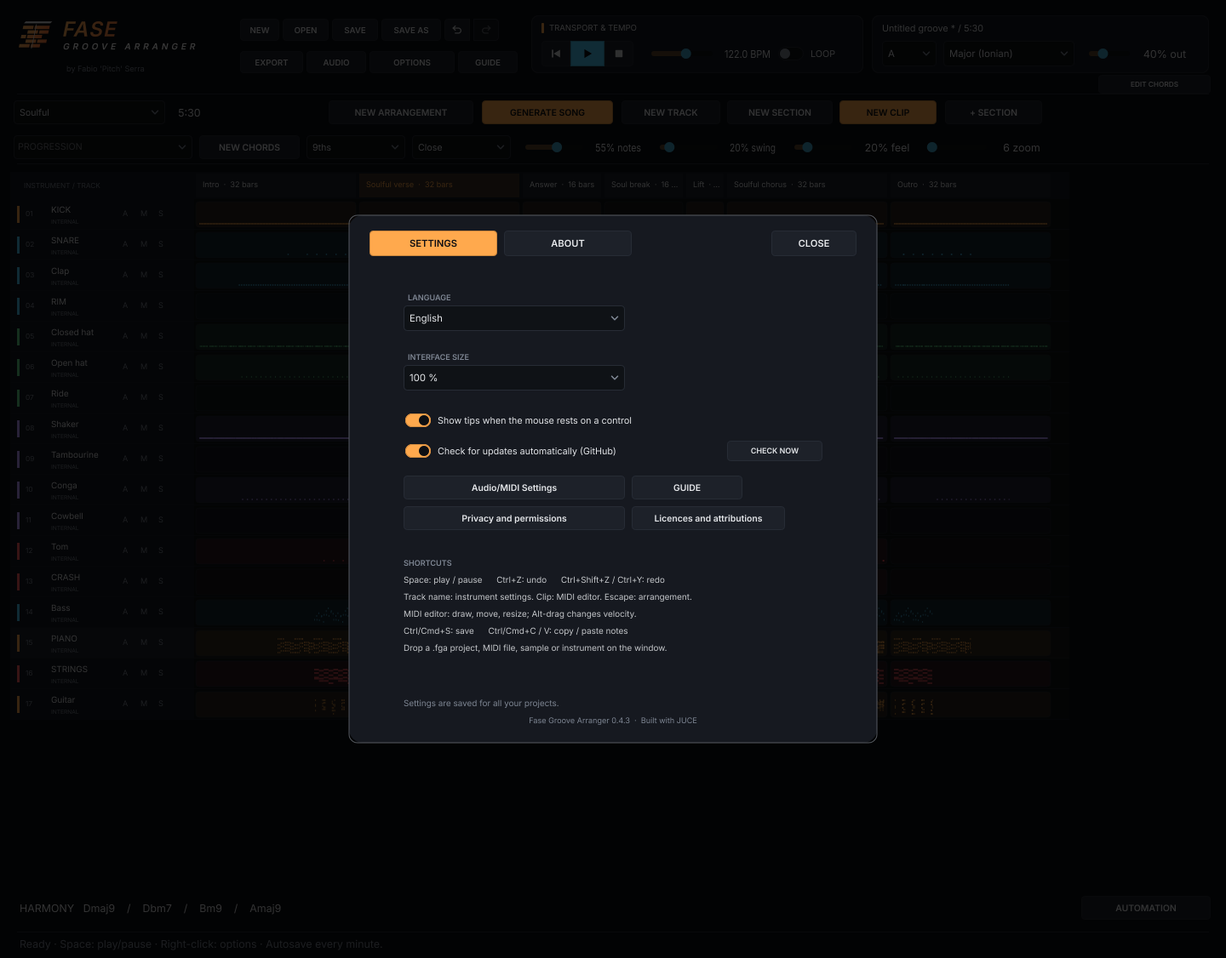
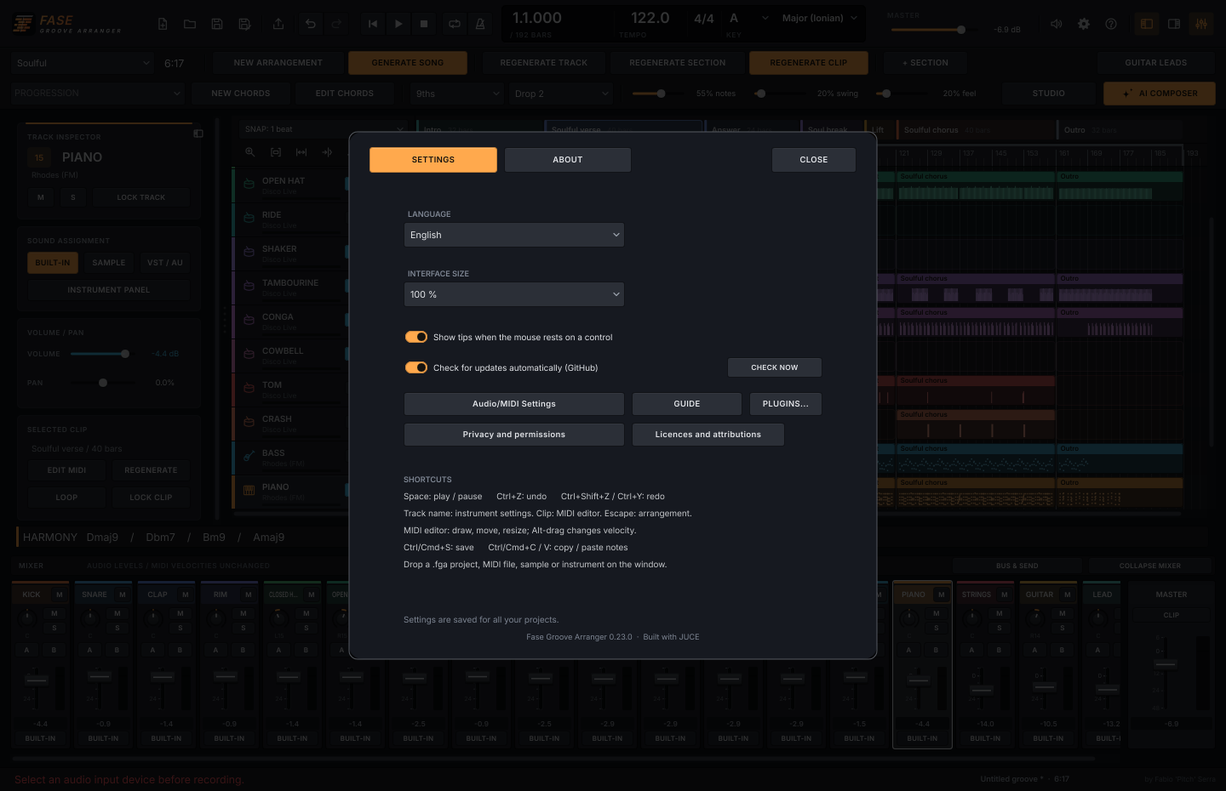
Refresh Arranger manuals and screenshots for 0.23.1

diff --git a/docs/GUIDE.md b/docs/GUIDE.md
@@ -20,15 +20,24 @@ family genres: pick a key, chords and a groove, listen with the guide sounds, th
 8. [FAQ and troubleshooting](#8-faq-and-troubleshooting)
 9. [Listen to my music](#9-listen-to-my-music)
 
+**Quick access:**
+
+- [Sampler and Studio](#studio-sampler-recording-and-media)
+- [Mixer and sends](#mixer-groups-and-sends)
+- [Automation](#pan-master-and-vst-parameters)
+- [Export](#4-exporting-midi-and-audio-to-your-daw)
+
+This guide is current for **0.23.1**. Screenshots show the current interface. The app’s **?** icon opens the same manual with search, contents and enlargeable images.
+
 ---
 
 ## 1. Installation
 
-This guide covers **v0.21.2** of Fase Groove Arranger. Download your system's package from the [latest release](https://github.com/wsx79/fasegroovearranger/releases/latest).
+This guide covers **v0.23.1** of Fase Groove Arranger. Download your system's package from the [latest release](https://github.com/wsx79/fasegroovearranger/releases/latest).
 
 ### Windows installer (recommended)
 
-Open **FaseGrooveArranger-Windows-Setup.exe**, choose English or Italian and follow the same setup wizard as the other Fase Groove apps. It installs the standalone app, guides, privacy/licence notices and Start menu shortcuts; the desktop shortcut is optional. Arranger includes all three engines, so no Fase Groove plugins or other DAW are required. Windows asks for administrator access for the setup only. Uninstall from Windows Settings; projects, exports and local preferences remain.
+Open **FaseGrooveArranger-Windows-Setup.exe**, choose English or Italian and follow the same setup wizard as the other Fase Groove apps. It installs the standalone app, guides, privacy/licence notices and Start menu shortcuts; the desktop shortcut is optional. Arranger includes the four Piano, Drums, Guitar and Lead engines, so no Fase Groove plugins or other DAW are required. Windows asks for administrator access for the setup only. Uninstall from Windows Settings; projects, exports and local preferences remain.
 
 ### Manual installation (all systems)
 
@@ -48,7 +57,7 @@ Save your project before **INSTALL NOW**. Installed Windows copies run the same 
 
 Downloads and staging remain in `Downloads/Fase Groove Arranger updates`, or Documents if Downloads is unavailable. Projects, samples, exports and autosaves are not replaced by upgrades. **0.7.0 and earlier:** install this release once manually; their DOWNLOAD button opens the release page. Later versions use the integrated installer/update workflow. On Linux, the network check/download uses system `curl`.
 
-**First launch:** open **AUDIO**, choose your output and a buffer suited to the device. The app uses audio output; it does not open the microphone.
+**First launch:** click the **speaker icon** at the top right, then **Audio device / buffer**. Choose your output and buffer. Audio input is enabled from these settings or when you choose to record it in Studio; it is not opened automatically at startup. On macOS, allow microphone access if you want to record an input.
 
 > Start with the guide sound. You can hear and build the whole song before choosing your instruments.
 
@@ -61,7 +70,7 @@ Downloads and staging remain in `Downloads/Fase Groove Arranger updates`, or Doc
 3. Click **NEW ARRANGEMENT**: the intro, main parts, break and outro appear.
 4. Press **PLAY** or the **space bar** and listen.
 5. Double-click a **piano clip** in the main part. Its large piano roll opens; move a note or change its velocity.
-6. Return with **< ARRANGEMENT**. Select the **Piano track**, click its amber gear beside Solo and choose a guide sound, sample or your own VST.
+6. Return with **< ARRANGEMENT**. Select **Piano** and choose **BUILT-IN**, **SAMPLE** or **VST / AU** in the inspector. The track gear opens its original musical controls.
 7. Click **SAVE**, name the project, then **EXPORT** for WAV, MP3 or MIDI.
 
 Want another take? **REGENERATE TRACK** changes just the selected instrument; **REGENERATE CLIP** changes only that track in that section. **UNDO** takes you back to the previous attempt.
@@ -78,10 +87,9 @@ New piano regenerations compare the previous rhythmic attacks against draws from
 
 ### Current interface
 
-Every button of the interface is drawn the same way: **lit (filled) = on**, raised = off.
+Every button of the interface is drawn the same way: **lit (filled) = on**, dimmed = off.
 **Amber** marks the main actions, **cyan** transport and automation. Piano, bass, strings, guitar
-and drums keep their family colours. Every button has its tooltip. Click a track name for its
-parameters and double-click a clip for its notes.
+and drums keep their family colours. Every button has its tooltip. Click a track name to select it in the inspector, its gear to open the instrument panel, and double-click a clip to edit its notes.
 
 The top contains project commands, transport and the controls shared by everyone: **tempo, key and scale**. Below are genre, resulting duration and chord progression. The large area is the song, with sections across and instruments down the side.
 
@@ -94,7 +102,7 @@ The top contains project commands, transport and the controls shared by everyone
 | **Arrangement** | Each rectangle is a clip: one instrument's notes in one section. |
 | **Track name** | Selects the track; its gear opens a separate instrument window with groove, playing, sound and mixer controls. |
 | **Double-click clip / E** | Opens the large MIDI editor for just that track and section. |
-| **AUDIO · OPTIONS · GUIDE** | Output device; information, credits and privacy; the guide. |
+| **Speaker · gear · ?** | Audio and autosave; options, language and credits; this guide. Icons sit at the top right. |
 
 Colours follow the instruments: **amber** for piano and kick, **cyan** for bass and backbeats, **green** for cymbals, **violet** for percussion and **red** for strings and tom/crash. Guitar playing lanes keep their own colours.
 
@@ -165,11 +173,13 @@ Folders are read and audio headers measured in the background, so the interface 
 
 **STUDIO**, next to **AI COMPOSER**, opens an always-on-top window. Close it with X; reopening centres it. When a track uses a **Sample**, its inspector shows **OPEN SAMPLER**. The sampler target menu lists only sample tracks, including samples needing relinking. MIDI recording and media retain access to all tracks; changing tabs during a take cannot change the recording destination.
 
+#### Prepare and edit a sample
+
 <p align="center"><img src="images/guide_sampler.png" alt="Studio sampler" width="980"></p>
 
-- A single full-width waveform shows its ruler, numbered slice markers and trim handles. Wheel/pinch zoom at the pointer; horizontal gestures or Shift-wheel pan the view. Double-click fits the sample. Navigation leaves project and Undo unchanged. Drop audio from the app browser or operating system onto the waveform.
+Drop an audio file from the browser or operating system onto the waveform, or press **LOAD SAMPLE**. Numbered markers identify slices.
 
-**SAMPLER.** Load WAV, AIFF, FLAC, OGG or MP3 samples up to 30 minutes and 512 MiB decoded per file. Drag the nearest waveform edge to trim start/end; **mouse wheel** and **trackpad pinch** zoom around the pointer; horizontal gestures or **Shift+wheel** move the view. **Double-click** fits the whole sample. **ZERO CROSSING** snaps an edit to a nearby zero crossing. Start/end values are fractions of the sample, from 0 to 1; fades and envelope times are seconds.
+**SAMPLER.** Load WAV, AIFF, FLAC or OGG samples up to 30 minutes and 512 MiB decoded per file. Drag the nearest waveform edge to trim start/end; **mouse wheel** and **trackpad pinch** zoom around the pointer; horizontal gestures or **Shift+wheel** move the view. **Double-click** fits the whole sample. **ZERO CROSSING** snaps an edit to a nearby zero crossing. Start/end values are fractions of the sample, from 0 to 1; fades and envelope times are seconds.
 
 - **Classic / gate** follows MIDI note-off; **One-shot** plays the complete region even for short notes. Use One-shot for crashes and cymbals.
 - **LOOP** repeats the loop region in Classic mode; crossfade softens the seam. **REVERSE** changes playback direction.
@@ -181,28 +191,43 @@ Folders are read and audio headers measured in the background, so the interface 
 - Controls are grouped into five modules: region/loop, amplitude envelope, tuning/playback, filter and slice/sync. Rotary controls retain the original parameters and their numeric values underneath remain editable. Tooltips explain actions and units when you rest the pointer over a control. They follow the global tooltip preference and work in Studio’s separate window.
 - **SAVE PRESET** writes a `.fgs` and a neighbouring sample folder. Move both together. **OPEN PRESET** restores sample, root and settings. Project saving and Undo/Redo also preserve sampler settings.
 
-<p align="center"><img src="images/guide_recording.png" alt="Studio recording" width="980"></p>
+**Safe scrolling.** In Studio, wheel and trackpad gestures navigate the view without changing levels, parameters or menu choices underneath the pointer. Drag a control or type in its numeric field to edit a value. Waveform zoom and panning remain available.
 
-**MIDI REC.** Select an available MIDI input or use the on-screen keyboard. REFRESH discovers devices connected after opening Studio. **MONITOR** auditions input with transport stopped. Select zero, one or two count-in bars, quantisation off or quarter through thirty-second notes, and overdub or replacement. Millisecond correction compensates recording timing. Press **RECORD**, then **FINISH TAKE** to keep playing or **STOP** to stop. Closing Studio finishes the take. The main window is protected from editing during recording; the take is one undo step. Quantisation moves onsets while preserving durations; sustain pedal becomes note duration. Notes and velocity are recorded; pitch-bend curves and controller automation are not recorded. Locked tracks and clips are protected.
-
-
-**STUDIO AUDIO.** In Recording choose **Audio input** or **Master mix**, press **RECORD AUDIO**, and choose a WAV destination. Input opens only on request; choose its device/channels under Settings → Audio device/buffer. Recording starts transport at the current position. **FINISH TAKE** flushes the WAV without resetting song position; closing Studio also finishes the take and keeps its file. MIDI and audio takes cannot record together.
-
-**USE AUDIO TAKE** creates a sample track and a clip at the recorded position, extending the guide if necessary. Position includes device/plugin latency; preroll before zero is excluded using sampler trim while the original WAV is kept. Recording remains continuous through loops; disable the loop to hear a long take linearly. This is one undoable action; Undo keeps the WAV. Master takes start muted to avoid doubling the song: their files are post-master and an imported track subsequently follows the current mix. **BOUNCE TRACK** exports the selected track with effects, tails and latency compensation. Takes beyond the sampler limit remain WAVs on disk; Studio explains why import is unavailable. Rate changes or queue faults interrupt a take with a warning, without silencing unrelated tracks.
-
-Compensation displays the samples used and the **262143-frame** capacity: about 5.46 s at 48 kHz and less at higher rates. Exceeding the limit is indicated. MIDI capture subtracts device output, instrument/insert and alignment latency on a continuous clock through loop wraps. Input overflow is reported without a global panic. Live float output keeps headroom above ±1; the meter indicates clipping, while PCM/MP3 encoders limit exported samples.
-
-Plugin snapshots are read only with processing quiescent. Save, Undo and export snapshots can cause a short pause depending on the plugin; factory creation and preparation then run outside that window and export renders a private copy. Input recording keeps incoming samples during a snapshot; master recording retains what is actually audible.
-
-**MEDIA.** **COLLECT & SAVE** writes a portable project and neighbouring `.media` folder, copying and verifying samples while preserving originals. Identical samples are deduplicated. Move project and folder together. **RELINK SAMPLES** searches a folder recursively, matching content fingerprints where available, otherwise requiring a unique filename. Unresolved samples remain missing. External plugins are not copied: install them separately on the destination computer.
+#### Audition and tune the sample
 
 **Sample audition.** Press **PLAY SAMPLE** to hear only the selected source with the current sampler settings, before track volume, mute, effects and buses. Song playback stops while retaining its position. **AUDITION LOOP** repeats the region for continuous filter, pitch, envelope and trim editing; it does not change the sampler LOOP parameter. **STOP** stops immediately. Without repeat, the region ends naturally; an enabled internal sampler loop continues until STOP. In Slices mode, audition plays the first slice; use pads or the keyboard for the others. The auditioned note is highlighted below. Changing sample or tab, closing Studio, starting the song or recording stops audition. These three controls do not change project data, MIDI or Undo history.
 
 **Sample tuner.** During isolated audition, MIDI keyboard playing or song playback, **DETECTED PITCH** measures the selected sampler audio before track effects and shows its nearest note, cents offset and frequency in Hz. **+** means sharp, **-** means flat; the reference is A = 440 Hz. Adjust **TRANSPOSE** in semitones and **FINE (cents)** for fine tuning: the reading follows the processed sample sound. Octave numbering matches the Studio keyboard. The MIDI NOTE indication remains the MIDI trigger key, which can differ from the sample’s actual pitch. The tuner is intended for stable monophonic sounds, approximately 35–1600 Hz, with a short analysis window; noise, crashes, chords and transients may show **No stable pitch**. The last stable pitch is held for one second after playback ends, labelled **LAST PITCH**, so short samples remain readable; then a dash appears.
 
-**Safe scrolling.** In Studio, wheel and trackpad gestures navigate the view without changing levels, parameters or menu choices underneath the pointer. Drag a control or type in its numeric field to edit a value. Waveform zoom and panning remain available.
-
 **If the kick becomes quiet after an edit.** Try **UNDO** first. For a sample source, select Kick and press **RESET SAMPLE**: it preserves the file, MIDI and mix. If it remains quiet, also check track volume, mute/solo, automation, routing and the assigned group level/mute, since sampler reset preserves the mix. Identifying the exact cause requires the project state; low level alone does not establish an audio-engine defect.
+
+#### Record MIDI
+
+<p align="center"><img src="images/guide_recording.png" alt="Studio recording" width="980"></p>
+
+**MIDI REC.** Select an available MIDI input or use the on-screen keyboard. REFRESH discovers devices connected after opening Studio. **MONITOR** auditions input with transport stopped. Select zero, one or two count-in bars, quantisation off or quarter through thirty-second notes, and overdub or replacement. Millisecond correction compensates recording timing. Press **RECORD**, then **FINISH TAKE** to keep playing or **STOP** to stop. Closing Studio finishes the take. The main window is protected from editing during recording; the take is one undo step. Quantisation moves onsets while preserving durations; sustain pedal becomes note duration. Notes and velocity are recorded; pitch-bend curves and controller automation are not recorded. Locked tracks and clips are protected.
+
+#### Record audio and use a take
+
+1. Open **STUDIO → RECORDING** and choose the target track in the top menu. The **AUDIO RECORDING** card is separate from MIDI recording.
+2. Choose **Audio input** or **Master mix**: capture the input device or the audible song output. First configure an audio device using the speaker icon → **Audio device / buffer**; enable the input channels you need.
+3. Position the cursor on the ruler, press **RECORD AUDIO**, and choose a WAV destination. Transport starts too. The file is stereo 24-bit at the device sample rate.
+4. Press **FINISH TAKE** to complete the WAV; closing Studio also finishes the take. Finishing does not return song position to the beginning.
+5. Press **USE AUDIO TAKE** to add a new sample track with a clip at the recorded position. The section guide is extended if needed. **UNDO** removes the track while keeping the WAV on disk.
+
+**Master mix** takes are imported **muted** to avoid doubling the song. Unmute when you want to hear the take, accounting for the original mix. Its WAV already includes master processing; the imported track then follows the current mix. Recording remains continuous through loop boundaries: disable LOOP to hear a long take linearly.
+
+Alignment includes plugin latency and, for input recording, device latency. Preroll before zero is excluded using sampler trim without cutting the WAV. Takes shorter than the latency preroll or larger than sampler limits remain on disk; Studio explains why **USE AUDIO TAKE** is unavailable. A device/rate change or write failure interrupts the take with a warning. MIDI and audio cannot record together.
+
+**BOUNCE TRACK** saves the selected track’s sound to WAV, with effects, tails and latency compensation. It renders the track rather than recording a new input take.
+
+**Latency and level.** Studio displays compensation and capacity: **262143 samples**, about 5.46 s at 48 kHz. Plugins exceeding the limit trigger a warning. MIDI recording’s millisecond correction fine-tunes your performance timing. Input overflow is reported: check the take without losing unrelated tracks’ playback. Live master output retains float peaks; if **CLIP** lights, lower levels before PCM or MP3 export.
+
+Saving a VST state can cause a short pause, depending on the plugin. Audio input continues to be captured during that pause; a master recording retains the actually audible output, including silence.
+
+#### Manage samples and portable projects
+
+**MEDIA.** **COLLECT & SAVE** writes a portable project and neighbouring `.media` folder, copying and verifying samples while preserving originals. Identical samples are deduplicated. Move project and folder together. **RELINK SAMPLES** searches a folder recursively, matching content fingerprints where available, otherwise requiring a unique filename. Unresolved samples remain missing. External plugins are not copied: install them separately on the destination computer.
 
 ### Mixer: groups and sends
 
@@ -215,7 +240,7 @@ Open **BUS & SEND** from the mixer header. The panel stays on top, closes with X
 - Select any track in the panel and adjust its two percentages independently. **A - REVERB** and **B - DELAY** are effect returns, separate from track Groups A/B. All four buses have editable name, level, pan, mute and solo; returns also expose room/damping and delay time/feedback controls.
 - An idle meter reads **Silence**: it is receiving no signal, which does not necessarily mean mute. Other readings are numeric dB. Wheel and trackpad gestures cannot change values accidentally.
 
-Studio and Bus & Send share flat dark surfaces, knobs, chips and a single orange accent. Mapped slice keys carry an orange mark before playback. MIDI Rec and Media use the same theme.
+Studio and Bus & Send share flat dark surfaces, knobs, chips and a single orange accent. Mapped slice keys carry an orange mark before playback. Recording and Media use the same theme.
 
 Each strip has one editable title, a Pan knob, bottom-aligned vertical fader/meter and **M / S** buttons. Amber identifies effect returns and active values. Room/Damping and Crossfeed/Damping/Feedback/Delay knobs sit above the Reverb and Delay strips; groups retain the same fader area. Track, output and two rotary sends share the upper source panel.
 
@@ -235,10 +260,12 @@ Sends follow track and group levels; master controls returns too. Use song Play 
 | Control | What it does |
 |---|---|
 | **⏮ ▶/❚❚ ■** | Return to the start, play / pause, stop. The space bar toggles play / pause. |
-| **TEMPO** | Sets song BPM within the selected genre’s range. Duration follows the bar count. |
+| **TEMPO** | Changes song playback speed. Normally follows the genre range; AI songs with free tempo allow 30–300 BPM. Bars and notes remain unchanged while duration in minutes changes. |
 | **Position** | Bar : beat / song length in bars, next to the TRANSPORT title. |
 | **LOOP** | Repeats the chosen region; LOOP CLIP repeats the selected editor section. |
 | **CLICK** | Metronome while playing (live only, never exported); same as **C**. |
+
+Songs use **4/4**, with four beats per bar. The transport indicator is not a time-signature selector.
 
 ### Progression, Harmony & Scales and Groove
 
@@ -292,7 +319,7 @@ Lead uses the same melodic engine and four guide synth sounds as [Fase Groove Le
 
 **Global octave** shifts the entire Lead melody from −2 to +2 octaves, relative to each lane’s own octave. It is stored in the project and used for MIDI and audio export.
 
-Existing seventeen-track projects load with an empty Lead track appended. Existing track IDs, notes, plugins, mix and automation stay intact. Regenerate Lead explicitly to add a melody to an old song; manual MIDI edits remain editable like the other pitched instruments.
+Existing seventeen-track projects load with an empty Lead track appended. Projects with fewer tracks are migrated too: saved parts retain their instrument assignments and missing slots remain empty and muted. Existing track IDs, notes, plugins, mix and automation stay intact. Regenerate Lead explicitly to add a melody to an old song; manual MIDI edits remain editable like the other pitched instruments.
 
 ### Genre sound palettes
 
@@ -389,7 +416,7 @@ The twelve lanes sit side by side in the mixer: **level, octave, mute, swing sha
 
 **SAVE / SAVE AS** writes a `.fga` project: sections, notes, parameters, locks, mixer and VST state. Samples and plugins stay at their paths; keep the files used in the song.
 
-An autosave is written once a minute when work has changed. **AUDIO → restore autosave** opens it; **open autosave folder** shows its location. Save separately named copies for versions you want to keep. UNDO retains up to forty steps while the app is open.
+An autosave is written once a minute when work has changed, except during recording or export. **speaker icon → restore autosave** opens it; **open autosave folder** shows its location. Save separately named copies for versions you want to keep. UNDO retains up to forty steps while the app is open.
 
 ### Shortcuts
 
@@ -461,7 +488,7 @@ To continue in another DAW, use the MIDI or stems in chapter 4.
 
 The form follows the style. **Deep and Chill** develop through longer passages; **Jackin'** uses short breaks and returns; **Garage & UK** has two drops and a cut; **Soulful and Gospel** use answers and reprises; **Afro & Latin** develops its percussion; **Funky & Disco** moves between verses and choruses.
 
-Tempo is chosen within the genre range: Soulful 118–125, Deep 115–125, Garage & UK 130–135, Afro & Latin 115–125 BPM. The tempo control uses the selected style’s range. Neo Soul / Broken and Chill / Pads retain their slower warm-up character. Duration in seconds is `bars × 240 / BPM`.
+Tempo is chosen within the genre range: Soulful 118–125, Deep 115–125, Garage & UK 130–135, Afro & Latin 115–125 BPM. The tempo control normally uses the selected style’s range; AI songs with free tempo use 30–300 BPM. Neo Soul / Broken and Chill / Pads retain their slower warm-up character. Duration in seconds is `bars × 240 / BPM`.
 
 The song keeps its base groove across sections, changing performance, density and roles. Generated sections follow eight-bar phrases even with three, five or seven chords; the harmonic cycle continues across section boundaries instead of always restarting at chord one.
 
@@ -481,7 +508,7 @@ The song keeps its base groove across sections, changing performance, density an
 | **REGENERATE CLIP** | Just the selected track in this section. |
 | **NEW ARRANGEMENT** | Rebuilds the form and notes from genre, harmonic phrases and groove development. Unlock tracks and clips first. |
 
-**Right-click a section:** rename, duplicate with its notes, move, remove, change length or musical role. **+ SECTION** opens a menu to choose the role of the section inserted after the selected one. Extending a section leaves room to fill: regenerate or write the extra notes. Shortening it trims notes at its new end.
+**Right-click a section:** rename, duplicate with its notes, move, remove, change length or musical role. **+ SECTION** opens a menu to choose the role of the section inserted after the selected one. Dragging a section-header edge changes the guide while preserving clips and automation at their musical positions. To extend the music, resize a clip loop, duplicate parts, write notes or regenerate.
 
 > Try this: duplicate a drop, change only the bass in the second copy, then make the piano sparser. Keep a recognisable idea and change who carries it.
 
@@ -500,6 +527,14 @@ Values multiply the track fader: 0% is silence, 100% leaves the level unchanged,
 Envelopes are saved in `.fga` projects, independently of BPM and MIDI regeneration. Inserting, duplicating, deleting or moving sections moves their points too. Changing section length or using NEW ARRANGEMENT keeps absolute point times, clamped to the new song length: review the envelope afterwards. Old projects open with automation bypassed. Lane visibility belongs to the current editing session and is not saved in the project.
 
 Volume automation **does not change note velocities or export MIDI CC**: it is DAW audio gain. Original engine dynamics still work; extra arranger velocity ramps previously used to imitate fades are removed. Export audio to carry the curves into another application; MIDI retains musical notes and original CC.
+
+### Pan, master and VST parameters
+
+Open a lane using the track’s **A** button, then click the **parameter name at the left of the lane**. Choose **Volume**, **Pan**, **Master volume**, or a parameter exposed by the instrument or insert effect. Load a VST/AU first to see its parameters; controls the plugin does not expose are unavailable. Each track can keep up to 8 plugin parameter lanes.
+
+Draw points and curves as for volume. **Pan** moves from left through centre to right; **Master volume** controls the whole song’s output. The master envelope is shared: selecting it from another track shows the same curve. Plugin parameters use their normalised range. Curves affect audio exports; MIDI files do not transfer them to another instrument.
+
+The menu also offers **Random automation for this lane/track**, **Lock this lane**, and **Write automation when regenerating**. Check the latter before regenerating if you want to retain hand-drawn curves; lock the lane you need to protect. Edits support Undo. To remove only a plugin lane, choose **Remove this plugin lane**.
 
 ---
 
@@ -566,7 +601,7 @@ You have prepared a new key while the clips still contain their previous notes. 
 
 **I cannot hear anything**
 
-Check **AUDIO**, output device, PLAY, master level and MUTE/SOLO. Click **BUILT-IN** in the track panel to try the guide sound. If that works, check the assigned sample or VST.
+Check the **speaker icon → Audio device / buffer**, output device, PLAY, master level and MUTE/SOLO. Click **BUILT-IN** in the track panel to try the guide sound. If that works, check the assigned sample or VST.
 
 **A VST or sample cannot be found**
 
@@ -582,7 +617,19 @@ Genre sets the musical form; the groove and harmonic cycle determine its develop
 
 **Where are recording, automation and effect chains?**
 
-This version works on MIDI arrangements. Audio/MIDI recording, automation beyond track volume, audio editing, buses/sends, external effect chains and plugin delay compensation are not present. Export MIDI and WAV to continue in your DAW. Some advanced Fase Groove plugin controls have not yet been brought into the Arranger.
+**STUDIO → RECORDING** provides MIDI and input/master audio takes, take import and track bounce. The mixer provides groups A/B and reverb/delay sends; arrangement lanes automate volume, pan, master and VST/AU parameters. Each track has an instrument and one insert effect, with latency compensation. Multi-insert chains, destructive audio editing, audio-track warping and MIDI controller automation recording are not implemented.
+
+**RECORD AUDIO is disabled, or no input is captured**
+
+Configure an audio device using the speaker icon. For **Audio input**, check the device, channels and system permissions; **Master mix** captures the audible song output instead. Finish any MIDI take or export first. If **USE AUDIO TAKE** stays disabled, read Studio’s message: the take may lack audio after latency preroll or exceed sampler limits.
+
+**I cannot hear an imported take**
+
+Master takes start muted to avoid doubling the mix. Select the new track and check Mute, Solo, clip position and the song loop. Its WAV remains on disk after Undo.
+
+**A Crash or another sample stops too soon**
+
+Choose **One-shot** in Studio to play to the end with a short MIDI trigger. In **Classic / gate**, note length controls release: drag the note’s right edge in the piano roll. Also check the region end and envelope.
 
 **My MIDI file will not import**
 

diff --git a/README.md b/README.md
@@ -58,7 +58,7 @@ Zoom follows the mouse pointer (ruler wheel or Ctrl/Cmd+wheel); Shift+wheel scro
 - Studio sample audition: isolated Play/Stop and optional repeat, with live sampler edits, MIDI note feedback and an audio tuner showing detected pitch, cents and Hz.
 - Sample browser (**B**): saved sample folders and favourites, breadcrumb and history, search, type filter and sorting, file info, preview, and loading into a track's sampler by double-click or drag onto the track.
 - Project files (`.fga`), atomic saves, periodic local autosave and missing-instrument relinking.
-- Multitrack MIDI and individual MIDI files; stereo 24-bit WAV and 320 kbps stereo MP3, for a mix, one track or all 17 stems. **The MP3 encoder is bundled.**
+- Multitrack MIDI and individual MIDI files; stereo 24-bit WAV and 320 kbps stereo MP3, for a mix, one track or all 18 generated-track stems plus any added MIDI tracks. **The MP3 encoder is bundled.**
 - Six original interface languages (English, Italian, Spanish, French, German and Portuguese), translated control tooltips with a saved on/off preference, and extended piano controls including step dynamics, inversions, independent riff/feel seeds and sustain/expression MIDI controllers.
 - Original piano DNA, Morph, Voicing Coach A/B, Chord Variation Lab and circle of fifths; MIDI harmony/rhythm analysis, opt-in keyboard chord learning and local track presets. Shared half/one/two/four-bar harmonic duration; guide-sound pump rate and tempo/Kick-MIDI source.
 - Family SETTINGS / ABOUT overlay, interface-size preference, optional GitHub release checks and the original family icon buttons.
@@ -114,7 +114,7 @@ Generation settings affect the **next generation**. Existing editable MIDI stays
 - [Third-party notices](THIRD_PARTY_NOTICES.md) · [License](LICENSE)
 - [Validation record](docs/VALIDATION.md)
 
-Version **0.23.0** is an initial MIDI arranging workstation. It does not yet replace every function of a general-purpose DAW: destructive audio editing, audio-track warping, multi-effect chains, and controller automation recording are not implemented (plugin delay compensation is). One insert effect per track is available. Native plugins run in the application process and must match the application's architecture. Arbitrary third-party plugin compatibility needs testing with the actual plugins.
+Version **0.23.1** is an initial MIDI arranging workstation. It does not yet replace every function of a general-purpose DAW: destructive audio editing, audio-track warping, multi-effect chains, and controller automation recording are not implemented (plugin delay compensation is). One insert effect per track is available. Native plugins run in the application process and must match the application's architecture. Arbitrary third-party plugin compatibility needs testing with the actual plugins.
 
 The original guide instruments are synthesized audition sounds; they are not sampled commercial libraries. Use your own instruments for the final production. WAV is the lossless export; MP3 is intended for sharing and adds codec delay/padding.
 

diff --git a/docs/VALIDATION.md b/docs/VALIDATION.md
@@ -1,5 +1,11 @@
 # Validation record
 
+## 0.23.1 — manual refresh
+
+- Both manuals retain nine chapters and eleven images; local anchor checks, family resources and Windows/Linux packaging checks pass. Updated native screenshots follow the current Arranger.
+- The app rebuilt successfully with embedded manuals. Native UI verification passed for Italian/English manual rendering, navigation, search, zoom and the surrounding Studio/workspace flows.
+- Only documentation and release metadata change from 0.23.0. Audio code, MIDI generation, project schema and the official release workflow remain unchanged. Final cross-platform outcomes are recorded in the release report.
+
 ## 0.23.0 candidate — audit fixes (local, publication awaits approval)
 
 - Audit peer tests drive the real callback with a hosted test instance: live float headroom, processing without the control mutex, concurrent state snapshots/restores, automation boundary subdivision, MIDI offsets and per-subblock playhead, loop capture, latency subtraction and capacity reporting.

diff --git a/CHANGELOG.it.md b/CHANGELOG.it.md
@@ -1,5 +1,11 @@
 # Novità — Fase Groove Arranger
 
+## 0.23.1
+
+- Aggiorna le guide italiana e inglese all’Arranger attuale: campionatore, ascolto e accordatore, registrazione MIDI/audio, importazione take, render traccia, mandate del mixer e automazioni volume/pan/master/plugin.
+- Sostituisce le schermate obsolete di arrangiamento, mixer, Piano, sampler e impostazioni con catture native. Corregge FAQ, ingresso audio, formati campione, migrazione e numero tracce; aggiunge accessi rapidi.
+- Conserva impaginazione della famiglia, ricerca integrata e immagini ingrandibili. Elaborazione audio, generazione MIDI e formato progetto restano invariati.
+
 ## 0.23.0
 
 - Rimuove il mutex globale dell’engine dal callback audio: le modifiche di controllo attendono una finestra quiescente. Prepara i plugin sostitutivi fuori da questa finestra e serializza/ripristina lo stato senza elaborazione concorrente.

diff --git a/CHANGELOG.md b/CHANGELOG.md
@@ -1,5 +1,11 @@
 # Changelog — Fase Groove Arranger
 
+## 0.23.1
+
+- Refresh Italian and English manuals for the current Arranger: Studio sample editing/audition/tuning, MIDI/audio recording, take import, track bounce, mixer sends and volume/pan/master/plugin automation.
+- Replace outdated arrangement, mixer, Piano, sampler and settings screenshots with native captures. Correct troubleshooting, audio-input instructions, supported sample formats, migration and track counts; add quick navigation.
+- Keep the family manual layout, embedded search and enlargeable images. Audio processing, MIDI generation and project format are unchanged.
+
 ## 0.23.0
 
 - Remove the global engine mutex from the audio callback; control-side changes wait for a quiescent callback. Prepare replacement plugins outside that gate and snapshot/restore hosted state without concurrent processing.

diff --git a/README.it.md b/README.it.md
@@ -3,7 +3,7 @@
 <h1 align="center">Fase Groove Arranger</h1>
 
 <p align="center">
-  <b>Il brano completo con i motori di Piano, Drums e Guitar, in un'unica app standalone.</b><br>
+  <b>Il brano completo con i motori di Piano, Drums, Guitar e Lead, in un'unica app standalone.</b><br>
   di <b>Fabio 'Pitch' Serra</b> · Windows, macOS &amp; Linux · gratuito e open source
 </p>
 
